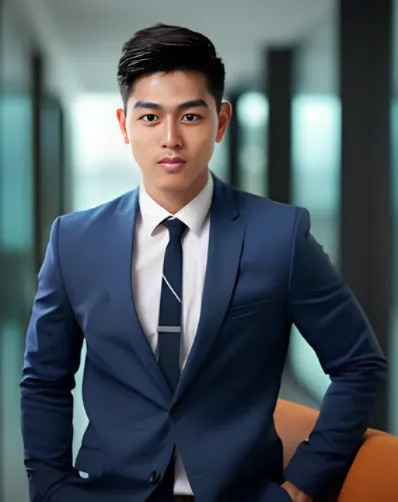
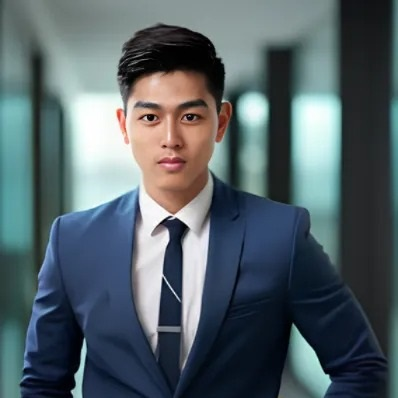
change the contact information

diff --git a/src/components/Contact/Contact.js b/src/components/Contact/Contact.js
@@ -1,43 +1,112 @@
 /* eslint-disable jsx-a11y/iframe-has-title */
-import './contact.css';
+import React, { useState } from "react";
+import emailjs from "emailjs-com";
+import "./contact.css";
 
-// import google from '../../assets/google.PNG'
+const Contact = () => {
+  // State to hold form values
+  const [formData, setFormData] = useState({
+    email: "",
+    subject: "",
+    message: "",
+  });
 
-const Contact=()=>{
-    return(
-        
-             <div className="contact_content">
-                <div className="contact_main">
-                <h2>Contact Me!!!</h2>
-                <p>Feel free to reach out to me for any inquiries or collaboration opportunities.</p>
-                <form className='contact_send'>
-                <div className="email">
-                    <label>Email</label>
-                    <input type='email' placeholder="example@email.com"/>
-                </div>
-                <div className="email">
-                    <label>Subject</label>
-                    <input  placeholder="Subject"/>
-                </div>
-                <div className="email">
-                    <label>Message</label>
-                    <textarea placeholder="Your Message"/>
-                </div>
-                <button type='submit'>Send Message</button>
-                </form>
-                
-            </div>
-                <div className="map">
-                <iframe src="https://www.google.com/maps/embed?pb=!1m18!1m12!1m3!1d11158.549621502469!2d-84.39709158024047!3d33.74886372725148!2m3!1f0!2f0!3f0!3m2!1i1024!2i768!4f13.1!3m3!1m2!1s0x88f5045d6993098d%3A0x66fede2f990b630b!2sAtlanta%2C%20GA!5e0!3m2!1sen!2sus!4v1725279981391!5m2!1sen!2sus"  style={{"border":0} }  loading="lazy" ></iframe>
-                </div>
+  // Handle input change
+  const handleChange = (e) => {
+    setFormData({
+      ...formData,
+      [e.target.name]: e.target.value,
+    });
+  };
 
+  // Handle form submission
+  const handleSubmit = (e) => {
+    e.preventDefault();
 
-            </div>
+    // Replace with your EmailJS service, template, and user IDs
+    emailjs
+      .send(
+        "service_yh2cw8d",
+        "template_8zn9lyx",
+        {
+          from_email: formData.email,
+          subject: formData.subject,
+          message: formData.message,
+        },
+        "u-kPkT23D9sBhYNQy"
+      )
+      .then(
+        (response) => {
+          console.log("SUCCESS!", response.status, response.text);
+          alert("Message sent successfully!");
+        },
+        (err) => {
+          console.error("FAILED...", err);
+          alert("Failed to send message. Please try again.");
+        }
+      );
 
-           
+    // Clear the form after submission
+    setFormData({
+      email: "",
+      subject: "",
+      message: "",
+    });
+  };
 
-        
-        
-    );
-}
+  return (
+    <div className="contact_content">
+      <div className="contact_main">
+        <h2>Contact Me!!!</h2>
+        <p>
+          Feel free to reach out to me for any inquiries or collaboration
+          opportunities.
+        </p>
+        <form className="contact_send" onSubmit={handleSubmit}>
+          <div className="email">
+            <label>Email</label>
+            <input
+              type="email"
+              name="email"
+              value={formData.email}
+              onChange={handleChange}
+              placeholder="example@email.com"
+              required
+            />
+          </div>
+          <div className="email">
+            <label>Subject</label>
+            <input
+              type="text"
+              name="subject"
+              value={formData.subject}
+              onChange={handleChange}
+              placeholder="Subject"
+              required
+            />
+          </div>
+          <div className="email">
+            <label>Message</label>
+            <textarea
+              name="message"
+              value={formData.message}
+              onChange={handleChange}
+              placeholder="Your Message"
+              required
+            />
+          </div>
+          <button type="submit">Send Message</button>
+        </form>
+      </div>
+      <div className="map">
+        <iframe
+          src="https://www.google.com/maps/embed?pb=!1m18!1m12!1m3!1d11158.549621502469!2d-84.39709158024047!3d33.74886372725148!2m3!1f0!2f0!3f0!3m2!1i1024!2i768!4f13.1!3m3!1m2!1s0x88f5045d6993098d%3A0x66fede2f990b630b!2sAtlanta%2C%20GA!5e0!3m2!1sen!2sus!4v1725279981391!5m2!1sen!2sus"
+          style={{ border: 0 }}
+          loading="lazy"
+        ></iframe>
+      </div>
+    </div>
+  );
+};
+
 export default Contact;

diff --git a/src/components/Profile/Profile.js b/src/components/Profile/Profile.js
@@ -1,28 +1,37 @@
-import './profile.css';
-import proImg from '../../assets/image.png'
-import {Link}from 'react-scroll';
-const Profile = () =>{
-
-    return(
-
-            <div className="profile-section">
-                <div className="profile-content">
-                    <div className="profile-content_img">
-                        <img src={proImg} alt="profileImage"/>
-                    </div>
-                    <div className="profile-content_contain">
-                        <div className="profile-content_text">
-                            <h2>FullStack Developer & Good Person</h2>
-                            <p>Passionate and skilled Full-Stack Developer with extensive experience in building dynamic, responsive, and user-centric web applications. Proficient in Python for backend development, leveraging Django and Flask to create robust APIs and scalable server-side logic. Expert in JavaScript with a focus on Node.js for efficient backend services and React/Next.js for building modern, interactive, and high-performance front-end applications.</p>
-                            <div className="content_btn">
-                                <a className='download' href='/liu-jian-hua/liu-jian-hua.pdf'>Download CV</a>
-                                <Link className='contact' to='section3' >Contact Me</Link>
-                            </div>
-                        </div>
-                        
-                    </div>
-                </div>
+import "./profile.css";
+import proImg from "../../assets/8.jpg";
+import { Link } from "react-scroll";
+const Profile = () => {
+  return (
+    <div className="profile-section">
+      <div className="profile-content">
+        <div className="profile-content_img">
+          <img src={proImg} alt="profileImage" />
+        </div>
+        <div className="profile-content_contain">
+          <div className="profile-content_text">
+            <h2>FullStack Developer & Good Person</h2>
+            <p>
+              Passionate and skilled Full-Stack Developer with extensive
+              experience in building dynamic, responsive, and user-centric web
+              applications. Proficient in Python for backend development,
+              leveraging Django and Flask to create robust APIs and scalable
+              server-side logic. Expert in JavaScript with a focus on Node.js
+              for efficient backend services and React/Next.js for building
+              modern, interactive, and high-performance front-end applications.
+            </p>
+            <div className="content_btn">
+              <a className="download" href="/liu-jian-hua/liu-jian-hua.pdf">
+                Download CV
+              </a>
+              <Link className="contact" to="section3">
+                Contact Me
+              </Link>
             </div>
-    )
-}
+          </div>
+        </div>
+      </div>
+    </div>
+  );
+};
 export default Profile;

diff --git a/public/index.html b/public/index.html
@@ -1,35 +1,21 @@
 <!DOCTYPE html>
 <html lang="en">
-  <head>
-    <meta charset="utf-8" />
-    <link rel="icon" href="%PUBLIC_URL%/favicon.ico" />
-    <meta name="viewport" content="width=device-width, initial-scale=1" />
-    <meta name="theme-color" content="#000000" />
-    <meta
-      name="description"
-      content="Web site created using create-react-app"
-    />
-    <link rel="apple-touch-icon" href="%PUBLIC_URL%/logo192.png" />
-    <!--
-      manifest.json provides metadata used when your web app is installed on a
-      user's mobile device or desktop. See https://developers.google.com/web/fundamentals/web-app-manifest/
-    -->
-    <link rel="manifest" href="%PUBLIC_URL%/manifest.json" />
-    <!--
-      Notice the use of %PUBLIC_URL% in the tags above.
-      It will be replaced with the URL of the `public` folder during the build.
-      Only files inside the `public` folder can be referenced from the HTML.
 
-      Unlike "/favicon.ico" or "favicon.ico", "%PUBLIC_URL%/favicon.ico" will
-      work correctly both with client-side routing and a non-root public URL.
-      Learn how to configure a non-root public URL by running `npm run build`.
-    -->
-    <title>React App</title>
-  </head>
-  <body>
-    <noscript>You need to enable JavaScript to run this app.</noscript>
-    <div id="root"></div>
-    <!--
+<head>
+  <meta charset="utf-8" />
+  <link rel="icon" href="%PUBLIC_URL%/logo.png" />
+  <meta name="viewport" content="width=device-width, initial-scale=1" />
+  <meta name="theme-color" content="#000000" />
+  <meta name="description" content="Web site created using create-react-app" />
+  <link rel="apple-touch-icon" href="%PUBLIC_URL%/logo192.png" />
+  <link rel="manifest" href="%PUBLIC_URL%/manifest.json" />
+  <title>Liu Jui Hua</title>
+</head>
+
+<body>
+  <noscript>You need to enable JavaScript to run this app.</noscript>
+  <div id="root"></div>
+  <!--
       This HTML file is a template.
       If you open it directly in the browser, you will see an empty page.
 
@@ -39,5 +25,6 @@
       To begin the development, run `npm start` or `yarn start`.
       To create a production bundle, use `npm run build` or `yarn build`.
     -->
-  </body>
+</body>
+
 </html>
